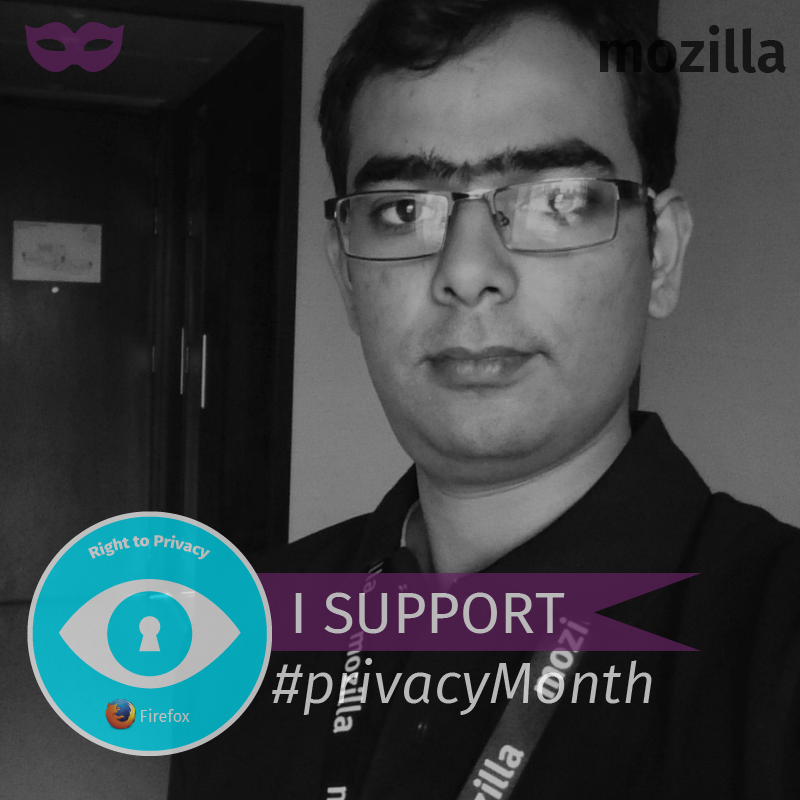
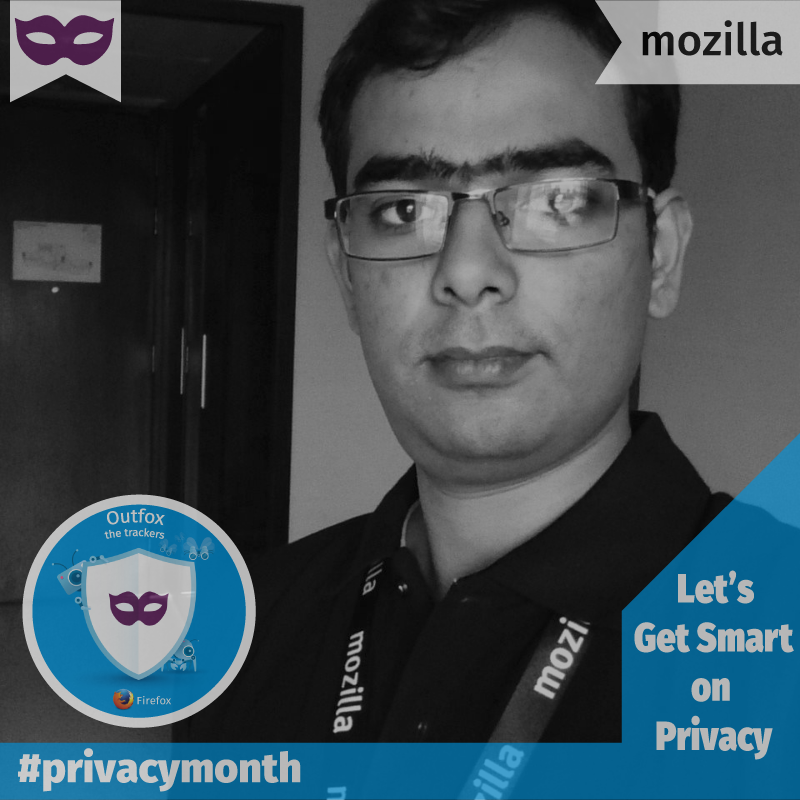
added new layout

Changed region(s): [[0.0, 0.5312, 1.0, 1.0], [0.75, 0.0, 1.0, 0.125], [0.0, 0.0, 0.1562, 0.125]]

diff --git a/index.html b/index.html
@@ -67,7 +67,7 @@
       <div class="transform-app">
         <input type="file" id="fileElem" class="hidden">
         <button id="select-photo">Select profile photo</button>
-        <a href="#" id="download-btn" download="profile-pic.png"><button class="pure-button download-btn">Download</button></a>
+        <a href="#" id="download-btn" download="privacy-pic.png"><button class="pure-button download-btn">Download</button></a>
         <button id="status" onclick="login()">Share on Facebook</button>
         <a href="https://twitter.com/share" class="twitter-share-button" data-size="large" data-text="Stay Secure, Support Privacy. #privacyMonth Visit http://privacymonth2017.online to support" data-show-count="false">Tweet</a><script async src="//platform.twitter.com/widgets.js" charset="utf-8"></script>
         <br>
